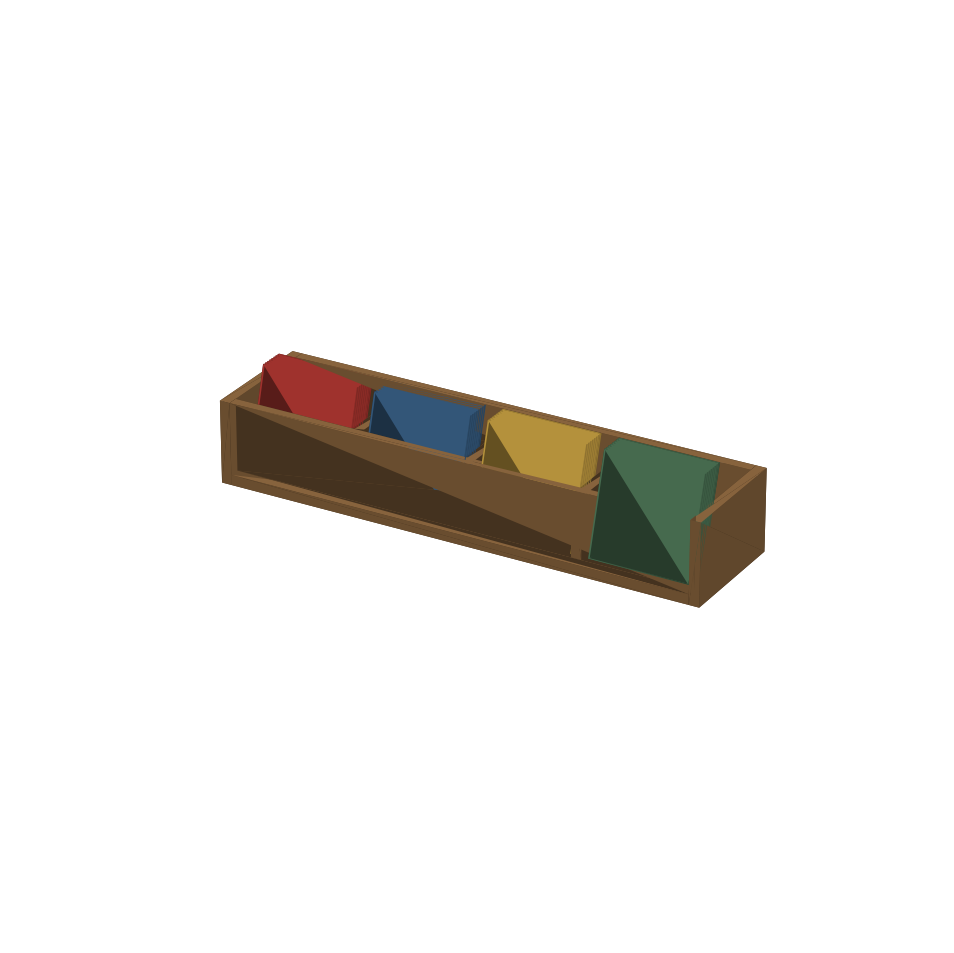
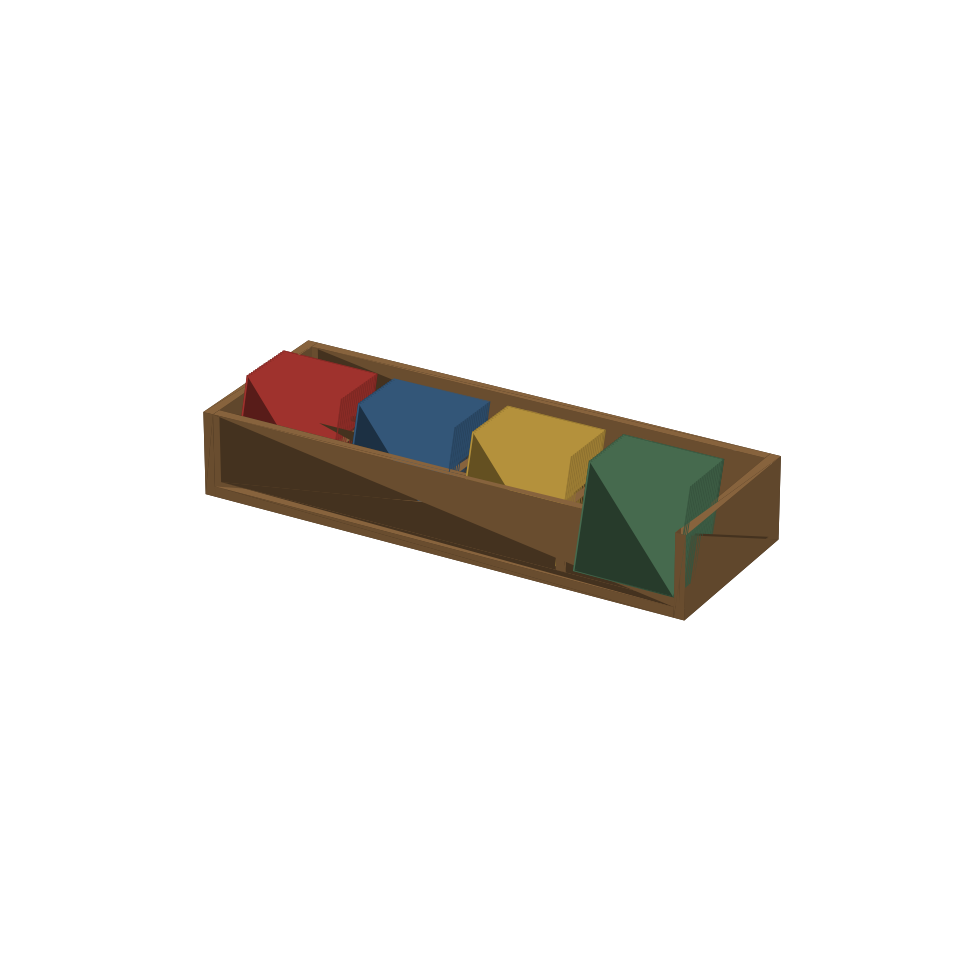
Make the flat simple bin deeper (13") to hold more 45s
Per-variant depth + record count. Flat bin protrudes more (13" / 33 cm deep)
since it's not a browse-from-top design; slanted stays 9".

Changed region(s): [[0.2128, 0.3347, 0.8208, 0.6695]]

diff --git a/viewer_simple_7inch_flat.html b/viewer_simple_7inch_flat.html
@@ -54,7 +54,7 @@
 <div id="app"></div>
 <div id="panel">
   <h1>Vinyl Record Storage</h1>
-  <div class="sub">Simple 4x 7" bin (flat) · 35.75 × 9.0 × 6.0 in · 12 parts</div>
+  <div class="sub">Simple 4x 7" bin (flat) · 35.75 × 13.0 × 6.0 in · 12 parts</div>
   <div class="row">
     <label>Explode</label>
     <input id="explode" type="range" min="0" max="100" value="0">
@@ -88,7 +88,7 @@ import * as THREE from 'three';
 import { OrbitControls } from 'three/addons/controls/OrbitControls.js';
 import { RoomEnvironment } from 'three/addons/environments/RoomEnvironment.js';
 
-const PARTS = [{"name": "side_left", "color": "#966e44", "positions": [0.0, 0.0, -0.0, 0.0, 0.0, -9.0, 0.0, 6.0, -9.0, 0.0, 6.0, -0.0, 0.75, 0.0, -0.0, 0.75, 0.0, -9.0, 0.75, 6.0, -9.0, 0.75, 6.0, -0.0], "indices": [3, 1, 0, 3, 2, 1, 4, 5, 7, 5, 6, 7, 5, 4, 1, 1, 4, 0, 6, 5, 2, 2, 5, 1, 4, 7, 0, 0, 7, 3, 7, 6, 3, 3, 6, 2]}, {"name": "side_right", "color": "#966e44", "positions": [35.0, 0.0, -0.0, 35.0, 0.0, -9.0, 35.0, 6.0, -9.0, 35.0, 6.0, -0.0, 35.75, 0.0, -0.0, 35.75, 0.0, -9.0, 35.75, 6.0, -9.0, 35.75, 6.0, -0.0], "indices": [3, 1, 0, 3, 2, 1, 4, 5, 7, 5, 6, 7, 5, 4, 1, 1, 4, 0, 6, 5, 2, 2, 5, 1, 4, 7, 0, 0, 7, 3, 7, 6, 3, 3, 6, 2]}, {"name": "bottom", "color": "#966e44", "positions": [0.75, 0.0, -0.0, 0.75, 0.75, -0.0, 0.75, 0.0, -9.0, 0.75, 0.75, -9.0, 35.0, 0.0, -0.0, 35.0, 0.75, -0.0, 35.0, 0.0, -9.0, 35.0, 0.75, -9.0], "indices": [1, 3, 0, 4, 1, 0, 0, 3, 2, 2, 4, 0, 1, 7, 3, 5, 1, 4, 5, 7, 1, 3, 7, 2, 6, 4, 2, 2, 7, 6, 6, 5, 4, 7, 5, 6]}, {"name": "back", "color": "#966e44", "positions": [0.75, 0.75, -8.25, 0.75, 6.0, -8.25, 0.75, 0.75, -9.0, 0.75, 6.0, -9.0, 35.0, 0.75, -8.25, 35.0, 6.0, -8.25, 35.0, 0.75, -9.0, 35.0, 6.0, -9.0], "indices": [1, 3, 0, 4, 1, 0, 0, 3, 2, 2, 4, 0, 1, 7, 3, 5, 1, 4, 5, 7, 1, 3, 7, 2, 6, 4, 2, 2, 7, 6, 6, 5, 4, 7, 5, 6]}, {"name": "front", "color": "#966e44", "positions": [0.75, 0.75, -0.0, 0.75, 6.0, -0.0, 0.75, 0.75, -0.75, 0.75, 6.0, -0.75, 35.0, 0.75, -0.0, 35.0, 6.0, -0.0, 35.0, 0.75, -0.75, 35.0, 6.0, -0.75], "indices": [1, 3, 0, 4, 1, 0, 0, 3, 2, 2, 4, 0, 1, 7, 3, 5, 1, 4, 5, 7, 1, 3, 7, 2, 6, 4, 2, 2, 7, 6, 6, 5, 4, 7, 5, 6]}, {"name": "divider_1", "color": "#966e44", "positions": [8.9375, 0.75, -0.75, 8.9375, 5.25, -0.75, 8.9375, 0.75, -8.25, 8.9375, 5.25, -8.25, 9.6875, 0.75, -0.75, 9.6875, 5.25, -0.75, 9.6875, 0.75, -8.25, 9.6875, 5.25, -8.25], "indices": [1, 3, 0, 4, 1, 0, 0, 3, 2, 2, 4, 0, 1, 7, 3, 5, 1, 4, 5, 7, 1, 3, 7, 2, 6, 4, 2, 2, 7, 6, 6, 5, 4, 7, 5, 6]}, {"name": "divider_2", "color": "#966e44", "positions": [17.5, 0.75, -0.75, 17.5, 5.25, -0.75, 17.5, 0.75, -8.25, 17.5, 5.25, -8.25, 18.25, 0.75, -0.75, 18.25, 5.25, -0.75, 18.25, 0.75, -8.25, 18.25, 5.25, -8.25], "indices": [1, 3, 0, 4, 1, 0, 0, 3, 2, 2, 4, 0, 1, 7, 3, 5, 1, 4, 5, 7, 1, 3, 7, 2, 6, 4, 2, 2, 7, 6, 6, 5, 4, 7, 5, 6]}, {"name": "divider_3", "color": "#966e44", "positions": [26.0625, 0.75, -0.75, 26.0625, 5.25, -0.75, 26.0625, 0.75, -8.25, 26.0625, 5.25, -8.25, 26.8125, 0.75, -0.75, 26.8125, 5.25, -0.75, 26.8125, 0.75, -8.25, 26.8125, 5.25, -8.25], "indices": [1, 3, 0, 4, 1, 0, 0, 3, 2, 2, 4, 0, 1, 7, 3, 5, 1, 4, 5, 7, 1, 3, 7, 2, 6, 4, 2, 2, 7, 6, 6, 5, 4, 7, 5, 6]}, {"name": "records_1", "color": "#c43e37", "positions": [1.4062, 0.75, -1.15, 1.4062, 7.7191, -3.1484, 1.4062, 0.6894, -1.3615, 1.4062, 7.6585, -3.3598, 8.6562, 0.75, -1.15, 8.6562, 7.7191, -3.1484, 8.6562, 0.6894, -1.3615, 8.6562, 7.6585, -3.3598, 1.4062, 0.75, -1.4089, 1.4062, 7.7191, -3.4072, 1.4062, 0.6894, -1.6203, 1.4062, 7.6585, -3.6187, 8.6562, 0.75, -1.4089, 8.6562, 7.7191, -3.4072, 8.6562, 0.6894, -1.6203, 8.6562, 7.6585, -3.6187, 1.4062, 0.75, -1.6677, 1.4062, 7.7191, -3.6661, 1.4062, 0.6894, -1.8792, 1.4062, 7.6585, -3.8776, 8.6562, 0.75, -1.6677, 8.6562, 7.7191, -3.6661, 8.6562, 0.6894, -1.8792, 8.6562, 7.6585, -3.8776, 1.4062, 0.75, -1.9266, 1.4062, 7.7191, -3.925, 1.4062, 0.6894, -2.1381, 1.4062, 7.6585, -4.1364, 8.6562, 0.75, -1.9266, 8.6562, 7.7191, -3.925, 8.6562, 0.6894, -2.1381, 8.6562, 7.6585, -4.1364, 1.4062, 0.75, -2.1855, 1.4062, 7.7191, -4.1838, 1.4062, 0.6894, -2.3969, 1.4062, 7.6585, -4.3953, 8.6562, 0.75, -2.1855, 8.6562, 7.7191, -4.1838, 8.6562, 0.6894, -2.3969, 8.6562, 7.6585, -4.3953, 1.4062, 0.75, -2.4443, 1.4062, 7.7191, -4.4427, 1.4062, 0.6894, -2.6558, 1.4062, 7.6585, -4.6542, 8.6562, 0.75, -2.4443, 8.6562, 7.7191, -4.4427, 8.6562, 0.6894, -2.6558, 8.6562, 7.6585, -4.6542, 1.4062, 0.75, -2.7032, 1.4062, 7.7191, -4.7016, 1.4062, 0.6894, -2.9147, 1.4062, 7.6585, -4.913, 8.6562, 0.75, -2.7032, 8.6562, 7.7191, -4.7016, 8.6562, 0.6894, -2.9147, 8.6562, 7.6585, -4.913, 1.4062, 0.75, -2.9621, 1.4062, 7.7191, -4.9604, 1.4062, 0.6894, -3.1735, 1.4062, 7.6585, -5.1719, 8.6562, 0.75, -2.9621, 8.6562, 7.7191, -4.9604, 8.6562, 0.6894, -3.1735, 8.6562, 7.6585, -5.1719], "indices": [1, 3, 0, 4, 1, 0, 0, 3, 2, 2, 4, 0, 1, 7, 3, 5, 1, 4, 5, 7, 1, 3, 7, 2, 6, 4, 2, 2, 7, 6, 6, 5, 4, 7, 5, 6, 9, 11, 8, 12, 9, 8, 8, 11, 10, 10, 12, 8, 9, 15, 11, 13, 9, 12, 13, 15, 9, 11, 15, 10, 14, 12, 10, 10, 15, 14, 14, 13, 12, 15, 13, 14, 17, 19, 16, 20, 17, 16, 16, 19, 18, 18, 20, 16, 17, 23, 19, 21, 17, 20, 21, 23, 17, 19, 23, 18, 22, 20, 18, 18, 23, 22, 22, 21, 20, 23, 21, 22, 25, 27, 24, 28, 25, 24, 24, 27, 26, 26, 28, 24, 25, 31, 27, 29, 25, 28, 29, 31, 25, 27, 31, 26, 30, 28, 26, 26, 31, 30, 30, 29, 28, 31, 29, 30, 33, 35, 32, 36, 33, 32, 32, 35, 34, 34, 36, 32, 33, 39, 35, 37, 33, 36, 37, 39, 33, 35, 39, 34, 38, 36, 34, 34, 39, 38, 38, 37, 36, 39, 37, 38, 41, 43, 40, 44, 41, 40, 40, 43, 42, 42, 44, 40, 41, 47, 43, 45, 41, 44, 45, 47, 41, 43, 47, 42, 46, 44, 42, 42, 47, 46, 46, 45, 44, 47, 45, 46, 49, 51, 48, 52, 49, 48, 48, 51, 50, 50, 52, 48, 49, 55, 51, 53, 49, 52, 53, 55, 49, 51, 55, 50, 54, 52, 50, 50, 55, 54, 54, 53, 52, 55, 53, 54, 57, 59, 56, 60, 57, 56, 56, 59, 58, 58, 60, 56, 57, 63, 59, 61, 57, 60, 61, 63, 57, 59, 63, 58, 62, 60, 58, 58, 63, 62, 62, 61, 60, 63, 61, 62]}, {"name": "records_2", "color": "#3f6a94", "positions": [9.9688, 0.75, -1.15, 9.9688, 7.7191, -3.1484, 9.9688, 0.6894, -1.3615, 9.9688, 7.6585, -3.3598, 17.2188, 0.75, -1.15, 17.2188, 7.7191, -3.1484, 17.2188, 0.6894, -1.3615, 17.2188, 7.6585, -3.3598, 9.9688, 0.75, -1.4089, 9.9688, 7.7191, -3.4072, 9.9688, 0.6894, -1.6203, 9.9688, 7.6585, -3.6187, 17.2188, 0.75, -1.4089, 17.2188, 7.7191, -3.4072, 17.2188, 0.6894, -1.6203, 17.2188, 7.6585, -3.6187, 9.9688, 0.75, -1.6677, 9.9688, 7.7191, -3.6661, 9.9688, 0.6894, -1.8792, 9.9688, 7.6585, -3.8776, 17.2188, 0.75, -1.6677, 17.2188, 7.7191, -3.6661, 17.2188, 0.6894, -1.8792, 17.2188, 7.6585, -3.8776, 9.9688, 0.75, -1.9266, 9.9688, 7.7191, -3.925, 9.9688, 0.6894, -2.1381, 9.9688, 7.6585, -4.1364, 17.2188, 0.75, -1.9266, 17.2188, 7.7191, -3.925, 17.2188, 0.6894, -2.1381, 17.2188, 7.6585, -4.1364, 9.9688, 0.75, -2.1855, 9.9688, 7.7191, -4.1838, 9.9688, 0.6894, -2.3969, 9.9688, 7.6585, -4.3953, 17.2188, 0.75, -2.1855, 17.2188, 7.7191, -4.1838, 17.2188, 0.6894, -2.3969, 17.2188, 7.6585, -4.3953, 9.9688, 0.75, -2.4443, 9.9688, 7.7191, -4.4427, 9.9688, 0.6894, -2.6558, 9.9688, 7.6585, -4.6542, 17.2188, 0.75, -2.4443, 17.2188, 7.7191, -4.4427, 17.2188, 0.6894, -2.6558, 17.2188, 7.6585, -4.6542, 9.9688, 0.75, -2.7032, 9.9688, 7.7191, -4.7016, 9.9688, 0.6894, -2.9147, 9.9688, 7.6585, -4.913, 17.2188, 0.75, -2.7032, 17.2188, 7.7191, -4.7016, 17.2188, 0.6894, -2.9147, 17.2188, 7.6585, -4.913, 9.9688, 0.75, -2.9621, 9.9688, 7.7191, -4.9604, 9.9688, 0.6894, -3.1735, 9.9688, 7.6585, -5.1719, 17.2188, 0.75, -2.9621, 17.2188, 7.7191, -4.9604, 17.2188, 0.6894, -3.1735, 17.2188, 7.6585, -5.1719], "indices": [1, 3, 0, 4, 1, 0, 0, 3, 2, 2, 4, 0, 1, 7, 3, 5, 1, 4, 5, 7, 1, 3, 7, 2, 6, 4, 2, 2, 7, 6, 6, 5, 4, 7, 5, 6, 9, 11, 8, 12, 9, 8, 8, 11, 10, 10, 12, 8, 9, 15, 11, 13, 9, 12, 13, 15, 9, 11, 15, 10, 14, 12, 10, 10, 15, 14, 14, 13, 12, 15, 13, 14, 17, 19, 16, 20, 17, 16, 16, 19, 18, 18, 20, 16, 17, 23, 19, 21, 17, 20, 21, 23, 17, 19, 23, 18, 22, 20, 18, 18, 23, 22, 22, 21, 20, 23, 21, 22, 25, 27, 24, 28, 25, 24, 24, 27, 26, 26, 28, 24, 25, 31, 27, 29, 25, 28, 29, 31, 25, 27, 31, 26, 30, 28, 26, 26, 31, 30, 30, 29, 28, 31, 29, 30, 33, 35, 32, 36, 33, 32, 32, 35, 34, 34, 36, 32, 33, 39, 35, 37, 33, 36, 37, 39, 33, 35, 39, 34, 38, 36, 34, 34, 39, 38, 38, 37, 36, 39, 37, 38, 41, 43, 40, 44, 41, 40, 40, 43, 42, 42, 44, 40, 41, 47, 43, 45, 41, 44, 45, 47, 41, 43, 47, 42, 46, 44, 42, 42, 47, 46, 46, 45, 44, 47, 45, 46, 49, 51, 48, 52, 49, 48, 48, 51, 50, 50, 52, 48, 49, 55, 51, 53, 49, 52, 53, 55, 49, 51, 55, 50, 54, 52, 50, 50, 55, 54, 54, 53, 52, 55, 53, 54, 57, 59, 56, 60, 57, 56, 56, 59, 58, 58, 60, 56, 57, 63, 59, 61, 57, 60, 61, 63, 57, 59, 63, 58, 62, 60, 58, 58, 63, 62, 62, 61, 60, 63, 61, 62]}, {"name": "records_3", "color": "#deb24a", "positions": [18.5312, 0.75, -1.15, 18.5312, 7.7191, -3.1484, 18.5312, 0.6894, -1.3615, 18.5312, 7.6585, -3.3598, 25.7812, 0.75, -1.15, 25.7812, 7.7191, -3.1484, 25.7812, 0.6894, -1.3615, 25.7812, 7.6585, -3.3598, 18.5312, 0.75, -1.4089, 18.5312, 7.7191, -3.4072, 18.5312, 0.6894, -1.6203, 18.5312, 7.6585, -3.6187, 25.7812, 0.75, -1.4089, 25.7812, 7.7191, -3.4072, 25.7812, 0.6894, -1.6203, 25.7812, 7.6585, -3.6187, 18.5312, 0.75, -1.6677, 18.5312, 7.7191, -3.6661, 18.5312, 0.6894, -1.8792, 18.5312, 7.6585, -3.8776, 25.7812, 0.75, -1.6677, 25.7812, 7.7191, -3.6661, 25.7812, 0.6894, -1.8792, 25.7812, 7.6585, -3.8776, 18.5312, 0.75, -1.9266, 18.5312, 7.7191, -3.925, 18.5312, 0.6894, -2.1381, 18.5312, 7.6585, -4.1364, 25.7812, 0.75, -1.9266, 25.7812, 7.7191, -3.925, 25.7812, 0.6894, -2.1381, 25.7812, 7.6585, -4.1364, 18.5312, 0.75, -2.1855, 18.5312, 7.7191, -4.1838, 18.5312, 0.6894, -2.3969, 18.5312, 7.6585, -4.3953, 25.7812, 0.75, -2.1855, 25.7812, 7.7191, -4.1838, 25.7812, 0.6894, -2.3969, 25.7812, 7.6585, -4.3953, 18.5312, 0.75, -2.4443, 18.5312, 7.7191, -4.4427, 18.5312, 0.6894, -2.6558, 18.5312, 7.6585, -4.6542, 25.7812, 0.75, -2.4443, 25.7812, 7.7191, -4.4427, 25.7812, 0.6894, -2.6558, 25.7812, 7.6585, -4.6542, 18.5312, 0.75, -2.7032, 18.5312, 7.7191, -4.7016, 18.5312, 0.6894, -2.9147, 18.5312, 7.6585, -4.913, 25.7812, 0.75, -2.7032, 25.7812, 7.7191, -4.7016, 25.7812, 0.6894, -2.9147, 25.7812, 7.6585, -4.913, 18.5312, 0.75, -2.9621, 18.5312, 7.7191, -4.9604, 18.5312, 0.6894, -3.1735, 18.5312, 7.6585, -5.1719, 25.7812, 0.75, -2.9621, 25.7812, 7.7191, -4.9604, 25.7812, 0.6894, -3.1735, 25.7812, 7.6585, -5.1719], "indices": [1, 3, 0, 4, 1, 0, 0, 3, 2, 2, 4, 0, 1, 7, 3, 5, 1, 4, 5, 7, 1, 3, 7, 2, 6, 4, 2, 2, 7, 6, 6, 5, 4, 7, 5, 6, 9, 11, 8, 12, 9, 8, 8, 11, 10, 10, 12, 8, 9, 15, 11, 13, 9, 12, 13, 15, 9, 11, 15, 10, 14, 12, 10, 10, 15, 14, 14, 13, 12, 15, 13, 14, 17, 19, 16, 20, 17, 16, 16, 19, 18, 18, 20, 16, 17, 23, 19, 21, 17, 20, 21, 23, 17, 19, 23, 18, 22, 20, 18, 18, 23, 22, 22, 21, 20, 23, 21, 22, 25, 27, 24, 28, 25, 24, 24, 27, 26, 26, 28, 24, 25, 31, 27, 29, 25, 28, 29, 31, 25, 27, 31, 26, 30, 28, 26, 26, 31, 30, 30, 29, 28, 31, 29, 30, 33, 35, 32, 36, 33, 32, 32, 35, 34, 34, 36, 32, 33, 39, 35, 37, 33, 36, 37, 39, 33, 35, 39, 34, 38, 36, 34, 34, 39, 38, 38, 37, 36, 39, 37, 38, 41, 43, 40, 44, 41, 40, 40, 43, 42, 42, 44, 40, 41, 47, 43, 45, 41, 44, 45, 47, 41, 43, 47, 42, 46, 44, 42, 42, 47, 46, 46, 45, 44, 47, 45, 46, 49, 51, 48, 52, 49, 48, 48, 51, 50, 50, 52, 48, 49, 55, 51, 53, 49, 52, 53, 55, 49, 51, 55, 50, 54, 52, 50, 50, 55, 54, 54, 53, 52, 55, 53, 54, 57, 59, 56, 60, 57, 56, 56, 59, 58, 58, 60, 56, 57, 63, 59, 61, 57, 60, 61, 63, 57, 59, 63, 58, 62, 60, 58, 58, 63, 62, 62, 61, 60, 63, 61, 62]}, {"name": "records_4", "color": "#568260", "positions": [27.0938, 0.75, -1.15, 27.0938, 7.7191, -3.1484, 27.0938, 0.6894, -1.3615, 27.0938, 7.6585, -3.3598, 34.3438, 0.75, -1.15, 34.3438, 7.7191, -3.1484, 34.3438, 0.6894, -1.3615, 34.3438, 7.6585, -3.3598, 27.0938, 0.75, -1.4089, 27.0938, 7.7191, -3.4072, 27.0938, 0.6894, -1.6203, 27.0938, 7.6585, -3.6187, 34.3438, 0.75, -1.4089, 34.3438, 7.7191, -3.4072, 34.3438, 0.6894, -1.6203, 34.3438, 7.6585, -3.6187, 27.0938, 0.75, -1.6677, 27.0938, 7.7191, -3.6661, 27.0938, 0.6894, -1.8792, 27.0938, 7.6585, -3.8776, 34.3438, 0.75, -1.6677, 34.3438, 7.7191, -3.6661, 34.3438, 0.6894, -1.8792, 34.3438, 7.6585, -3.8776, 27.0938, 0.75, -1.9266, 27.0938, 7.7191, -3.925, 27.0938, 0.6894, -2.1381, 27.0938, 7.6585, -4.1364, 34.3438, 0.75, -1.9266, 34.3438, 7.7191, -3.925, 34.3438, 0.6894, -2.1381, 34.3438, 7.6585, -4.1364, 27.0938, 0.75, -2.1855, 27.0938, 7.7191, -4.1838, 27.0938, 0.6894, -2.3969, 27.0938, 7.6585, -4.3953, 34.3438, 0.75, -2.1855, 34.3438, 7.7191, -4.1838, 34.3438, 0.6894, -2.3969, 34.3438, 7.6585, -4.3953, 27.0938, 0.75, -2.4443, 27.0938, 7.7191, -4.4427, 27.0938, 0.6894, -2.6558, 27.0938, 7.6585, -4.6542, 34.3438, 0.75, -2.4443, 34.3438, 7.7191, -4.4427, 34.3438, 0.6894, -2.6558, 34.3438, 7.6585, -4.6542, 27.0938, 0.75, -2.7032, 27.0938, 7.7191, -4.7016, 27.0938, 0.6894, -2.9147, 27.0938, 7.6585, -4.913, 34.3438, 0.75, -2.7032, 34.3438, 7.7191, -4.7016, 34.3438, 0.6894, -2.9147, 34.3438, 7.6585, -4.913, 27.0938, 0.75, -2.9621, 27.0938, 7.7191, -4.9604, 27.0938, 0.6894, -3.1735, 27.0938, 7.6585, -5.1719, 34.3438, 0.75, -2.9621, 34.3438, 7.7191, -4.9604, 34.3438, 0.6894, -3.1735, 34.3438, 7.6585, -5.1719], "indices": [1, 3, 0, 4, 1, 0, 0, 3, 2, 2, 4, 0, 1, 7, 3, 5, 1, 4, 5, 7, 1, 3, 7, 2, 6, 4, 2, 2, 7, 6, 6, 5, 4, 7, 5, 6, 9, 11, 8, 12, 9, 8, 8, 11, 10, 10, 12, 8, 9, 15, 11, 13, 9, 12, 13, 15, 9, 11, 15, 10, 14, 12, 10, 10, 15, 14, 14, 13, 12, 15, 13, 14, 17, 19, 16, 20, 17, 16, 16, 19, 18, 18, 20, 16, 17, 23, 19, 21, 17, 20, 21, 23, 17, 19, 23, 18, 22, 20, 18, 18, 23, 22, 22, 21, 20, 23, 21, 22, 25, 27, 24, 28, 25, 24, 24, 27, 26, 26, 28, 24, 25, 31, 27, 29, 25, 28, 29, 31, 25, 27, 31, 26, 30, 28, 26, 26, 31, 30, 30, 29, 28, 31, 29, 30, 33, 35, 32, 36, 33, 32, 32, 35, 34, 34, 36, 32, 33, 39, 35, 37, 33, 36, 37, 39, 33, 35, 39, 34, 38, 36, 34, 34, 39, 38, 38, 37, 36, 39, 37, 38, 41, 43, 40, 44, 41, 40, 40, 43, 42, 42, 44, 40, 41, 47, 43, 45, 41, 44, 45, 47, 41, 43, 47, 42, 46, 44, 42, 42, 47, 46, 46, 45, 44, 47, 45, 46, 49, 51, 48, 52, 49, 48, 48, 51, 50, 50, 52, 48, 49, 55, 51, 53, 49, 52, 53, 55, 49, 51, 55, 50, 54, 52, 50, 50, 55, 54, 54, 53, 52, 55, 53, 54, 57, 59, 56, 60, 57, 56, 56, 59, 58, 58, 60, 56, 57, 63, 59, 61, 57, 60, 61, 63, 57, 59, 63, 58, 62, 60, 58, 58, 63, 62, 62, 61, 60, 63, 61, 62]}];
+const PARTS = [{"name": "side_left", "color": "#966e44", "positions": [0.0, 0.0, -0.0, 0.0, 0.0, -13.0, 0.0, 6.0, -13.0, 0.0, 6.0, -0.0, 0.75, 0.0, -0.0, 0.75, 0.0, -13.0, 0.75, 6.0, -13.0, 0.75, 6.0, -0.0], "indices": [3, 1, 0, 3, 2, 1, 4, 5, 7, 5, 6, 7, 5, 4, 1, 1, 4, 0, 6, 5, 2, 2, 5, 1, 4, 7, 0, 0, 7, 3, 7, 6, 3, 3, 6, 2]}, {"name": "side_right", "color": "#966e44", "positions": [35.0, 0.0, -0.0, 35.0, 0.0, -13.0, 35.0, 6.0, -13.0, 35.0, 6.0, -0.0, 35.75, 0.0, -0.0, 35.75, 0.0, -13.0, 35.75, 6.0, -13.0, 35.75, 6.0, -0.0], "indices": [3, 1, 0, 3, 2, 1, 4, 5, 7, 5, 6, 7, 5, 4, 1, 1, 4, 0, 6, 5, 2, 2, 5, 1, 4, 7, 0, 0, 7, 3, 7, 6, 3, 3, 6, 2]}, {"name": "bottom", "color": "#966e44", "positions": [0.75, 0.0, -0.0, 0.75, 0.75, -0.0, 0.75, 0.0, -13.0, 0.75, 0.75, -13.0, 35.0, 0.0, -0.0, 35.0, 0.75, -0.0, 35.0, 0.0, -13.0, 35.0, 0.75, -13.0], "indices": [1, 3, 0, 4, 1, 0, 0, 3, 2, 2, 4, 0, 1, 7, 3, 5, 1, 4, 5, 7, 1, 3, 7, 2, 6, 4, 2, 2, 7, 6, 6, 5, 4, 7, 5, 6]}, {"name": "back", "color": "#966e44", "positions": [0.75, 0.75, -12.25, 0.75, 6.0, -12.25, 0.75, 0.75, -13.0, 0.75, 6.0, -13.0, 35.0, 0.75, -12.25, 35.0, 6.0, -12.25, 35.0, 0.75, -13.0, 35.0, 6.0, -13.0], "indices": [1, 3, 0, 4, 1, 0, 0, 3, 2, 2, 4, 0, 1, 7, 3, 5, 1, 4, 5, 7, 1, 3, 7, 2, 6, 4, 2, 2, 7, 6, 6, 5, 4, 7, 5, 6]}, {"name": "front", "color": "#966e44", "positions": [0.75, 0.75, -0.0, 0.75, 6.0, -0.0, 0.75, 0.75, -0.75, 0.75, 6.0, -0.75, 35.0, 0.75, -0.0, 35.0, 6.0, -0.0, 35.0, 0.75, -0.75, 35.0, 6.0, -0.75], "indices": [1, 3, 0, 4, 1, 0, 0, 3, 2, 2, 4, 0, 1, 7, 3, 5, 1, 4, 5, 7, 1, 3, 7, 2, 6, 4, 2, 2, 7, 6, 6, 5, 4, 7, 5, 6]}, {"name": "divider_1", "color": "#966e44", "positions": [8.9375, 0.75, -0.75, 8.9375, 5.25, -0.75, 8.9375, 0.75, -12.25, 8.9375, 5.25, -12.25, 9.6875, 0.75, -0.75, 9.6875, 5.25, -0.75, 9.6875, 0.75, -12.25, 9.6875, 5.25, -12.25], "indices": [1, 3, 0, 4, 1, 0, 0, 3, 2, 2, 4, 0, 1, 7, 3, 5, 1, 4, 5, 7, 1, 3, 7, 2, 6, 4, 2, 2, 7, 6, 6, 5, 4, 7, 5, 6]}, {"name": "divider_2", "color": "#966e44", "positions": [17.5, 0.75, -0.75, 17.5, 5.25, -0.75, 17.5, 0.75, -12.25, 17.5, 5.25, -12.25, 18.25, 0.75, -0.75, 18.25, 5.25, -0.75, 18.25, 0.75, -12.25, 18.25, 5.25, -12.25], "indices": [1, 3, 0, 4, 1, 0, 0, 3, 2, 2, 4, 0, 1, 7, 3, 5, 1, 4, 5, 7, 1, 3, 7, 2, 6, 4, 2, 2, 7, 6, 6, 5, 4, 7, 5, 6]}, {"name": "divider_3", "color": "#966e44", "positions": [26.0625, 0.75, -0.75, 26.0625, 5.25, -0.75, 26.0625, 0.75, -12.25, 26.0625, 5.25, -12.25, 26.8125, 0.75, -0.75, 26.8125, 5.25, -0.75, 26.8125, 0.75, -12.25, 26.8125, 5.25, -12.25], "indices": [1, 3, 0, 4, 1, 0, 0, 3, 2, 2, 4, 0, 1, 7, 3, 5, 1, 4, 5, 7, 1, 3, 7, 2, 6, 4, 2, 2, 7, 6, 6, 5, 4, 7, 5, 6]}, {"name": "records_1", "color": "#c43e37", "positions": [1.4062, 0.75, -1.15, 1.4062, 7.7191, -3.1484, 1.4062, 0.6894, -1.3615, 1.4062, 7.6585, -3.3598, 8.6562, 0.75, -1.15, 8.6562, 7.7191, -3.1484, 8.6562, 0.6894, -1.3615, 8.6562, 7.6585, -3.3598, 1.4062, 0.75, -1.4089, 1.4062, 7.7191, -3.4072, 1.4062, 0.6894, -1.6203, 1.4062, 7.6585, -3.6187, 8.6562, 0.75, -1.4089, 8.6562, 7.7191, -3.4072, 8.6562, 0.6894, -1.6203, 8.6562, 7.6585, -3.6187, 1.4062, 0.75, -1.6677, 1.4062, 7.7191, -3.6661, 1.4062, 0.6894, -1.8792, 1.4062, 7.6585, -3.8776, 8.6562, 0.75, -1.6677, 8.6562, 7.7191, -3.6661, 8.6562, 0.6894, -1.8792, 8.6562, 7.6585, -3.8776, 1.4062, 0.75, -1.9266, 1.4062, 7.7191, -3.925, 1.4062, 0.6894, -2.1381, 1.4062, 7.6585, -4.1364, 8.6562, 0.75, -1.9266, 8.6562, 7.7191, -3.925, 8.6562, 0.6894, -2.1381, 8.6562, 7.6585, -4.1364, 1.4062, 0.75, -2.1855, 1.4062, 7.7191, -4.1838, 1.4062, 0.6894, -2.3969, 1.4062, 7.6585, -4.3953, 8.6562, 0.75, -2.1855, 8.6562, 7.7191, -4.1838, 8.6562, 0.6894, -2.3969, 8.6562, 7.6585, -4.3953, 1.4062, 0.75, -2.4443, 1.4062, 7.7191, -4.4427, 1.4062, 0.6894, -2.6558, 1.4062, 7.6585, -4.6542, 8.6562, 0.75, -2.4443, 8.6562, 7.7191, -4.4427, 8.6562, 0.6894, -2.6558, 8.6562, 7.6585, -4.6542, 1.4062, 0.75, -2.7032, 1.4062, 7.7191, -4.7016, 1.4062, 0.6894, -2.9147, 1.4062, 7.6585, -4.913, 8.6562, 0.75, -2.7032, 8.6562, 7.7191, -4.7016, 8.6562, 0.6894, -2.9147, 8.6562, 7.6585, -4.913, 1.4062, 0.75, -2.9621, 1.4062, 7.7191, -4.9604, 1.4062, 0.6894, -3.1735, 1.4062, 7.6585, -5.1719, 8.6562, 0.75, -2.9621, 8.6562, 7.7191, -4.9604, 8.6562, 0.6894, -3.1735, 8.6562, 7.6585, -5.1719, 1.4062, 0.75, -3.2209, 1.4062, 7.7191, -5.2193, 1.4062, 0.6894, -3.4324, 1.4062, 7.6585, -5.4308, 8.6562, 0.75, -3.2209, 8.6562, 7.7191, -5.2193, 8.6562, 0.6894, -3.4324, 8.6562, 7.6585, -5.4308, 1.4062, 0.75, -3.4798, 1.4062, 7.7191, -5.4782, 1.4062, 0.6894, -3.6913, 1.4062, 7.6585, -5.6896, 8.6562, 0.75, -3.4798, 8.6562, 7.7191, -5.4782, 8.6562, 0.6894, -3.6913, 8.6562, 7.6585, -5.6896, 1.4062, 0.75, -3.7387, 1.4062, 7.7191, -5.737, 1.4062, 0.6894, -3.9501, 1.4062, 7.6585, -5.9485, 8.6562, 0.75, -3.7387, 8.6562, 7.7191, -5.737, 8.6562, 0.6894, -3.9501, 8.6562, 7.6585, -5.9485, 1.4062, 0.75, -3.9975, 1.4062, 7.7191, -5.9959, 1.4062, 0.6894, -4.209, 1.4062, 7.6585, -6.2074, 8.6562, 0.75, -3.9975, 8.6562, 7.7191, -5.9959, 8.6562, 0.6894, -4.209, 8.6562, 7.6585, -6.2074, 1.4062, 0.75, -4.2564, 1.4062, 7.7191, -6.2548, 1.4062, 0.6894, -4.4679, 1.4062, 7.6585, -6.4662, 8.6562, 0.75, -4.2564, 8.6562, 7.7191, -6.2548, 8.6562, 0.6894, -4.4679, 8.6562, 7.6585, -6.4662, 1.4062, 0.75, -4.5153, 1.4062, 7.7191, -6.5136, 1.4062, 0.6894, -4.7267, 1.4062, 7.6585, -6.7251, 8.6562, 0.75, -4.5153, 8.6562, 7.7191, -6.5136, 8.6562, 0.6894, -4.7267, 8.6562, 7.6585, -6.7251, 1.4062, 0.75, -4.7741, 1.4062, 7.7191, -6.7725, 1.4062, 0.6894, -4.9856, 1.4062, 7.6585, -6.984, 8.6562, 0.75, -4.7741, 8.6562, 7.7191, -6.7725, 8.6562, 0.6894, -4.9856, 8.6562, 7.6585, -6.984, 1.4062, 0.75, -5.033, 1.4062, 7.7191, -7.0314, 1.4062, 0.6894, -5.2445, 1.4062, 7.6585, -7.2428, 8.6562, 0.75, -5.033, 8.6562, 7.7191, -7.0314, 8.6562, 0.6894, -5.2445, 8.6562, 7.6585, -7.2428, 1.4062, 0.75, -5.2919, 1.4062, 7.7191, -7.2902, 1.4062, 0.6894, -5.5033, 1.4062, 7.6585, -7.5017, 8.6562, 0.75, -5.2919, 8.6562, 7.7191, -7.2902, 8.6562, 0.6894, -5.5033, 8.6562, 7.6585, -7.5017, 1.4062, 0.75, -5.5507, 1.4062, 7.7191, -7.5491, 1.4062, 0.6894, -5.7622, 1.4062, 7.6585, -7.7606, 8.6562, 0.75, -5.5507, 8.6562, 7.7191, -7.5491, 8.6562, 0.6894, -5.7622, 8.6562, 7.6585, -7.7606], "indices": [1, 3, 0, 4, 1, 0, 0, 3, 2, 2, 4, 0, 1, 7, 3, 5, 1, 4, 5, 7, 1, 3, 7, 2, 6, 4, 2, 2, 7, 6, 6, 5, 4, 7, 5, 6, 9, 11, 8, 12, 9, 8, 8, 11, 10, 10, 12, 8, 9, 15, 11, 13, 9, 12, 13, 15, 9, 11, 15, 10, 14, 12, 10, 10, 15, 14, 14, 13, 12, 15, 13, 14, 17, 19, 16, 20, 17, 16, 16, 19, 18, 18, 20, 16, 17, 23, 19, 21, 17, 20, 21, 23, 17, 19, 23, 18, 22, 20, 18, 18, 23, 22, 22, 21, 20, 23, 21, 22, 25, 27, 24, 28, 25, 24, 24, 27, 26, 26, 28, 24, 25, 31, 27, 29, 25, 28, 29, 31, 25, 27, 31, 26, 30, 28, 26, 26, 31, 30, 30, 29, 28, 31, 29, 30, 33, 35, 32, 36, 33, 32, 32, 35, 34, 34, 36, 32, 33, 39, 35, 37, 33, 36, 37, 39, 33, 35, 39, 34, 38, 36, 34, 34, 39, 38, 38, 37, 36, 39, 37, 38, 41, 43, 40, 44, 41, 40, 40, 43, 42, 42, 44, 40, 41, 47, 43, 45, 41, 44, 45, 47, 41, 43, 47, 42, 46, 44, 42, 42, 47, 46, 46, 45, 44, 47, 45, 46, 49, 51, 48, 52, 49, 48, 48, 51, 50, 50, 52, 48, 49, 55, 51, 53, 49, 52, 53, 55, 49, 51, 55, 50, 54, 52, 50, 50, 55, 54, 54, 53, 52, 55, 53, 54, 57, 59, 56, 60, 57, 56, 56, 59, 58, 58, 60, 56, 57, 63, 59, 61, 57, 60, 61, 63, 57, 59, 63, 58, 62, 60, 58, 58, 63, 62, 62, 61, 60, 63, 61, 62, 65, 67, 64, 68, 65, 64, 64, 67, 66, 66, 68, 64, 65, 71, 67, 69, 65, 68, 69, 71, 65, 67, 71, 66, 70, 68, 66, 66, 71, 70, 70, 69, 68, 71, 69, 70, 73, 75, 72, 76, 73, 72, 72, 75, 74, 74, 76, 72, 73, 79, 75, 77, 73, 76, 77, 79, 73, 75, 79, 74, 78, 76, 74, 74, 79, 78, 78, 77, 76, 79, 77, 78, 81, 83, 80, 84, 81, 80, 80, 83, 82, 82, 84, 80, 81, 87, 83, 85, 81, 84, 85, 87, 81, 83, 87, 82, 86, 84, 82, 82, 87, 86, 86, 85, 84, 87, 85, 86, 89, 91, 88, 92, 89, 88, 88, 91, 90, 90, 92, 88, 89, 95, 91, 93, 89, 92, 93, 95, 89, 91, 95, 90, 94, 92, 90, 90, 95, 94, 94, 93, 92, 95, 93, 94, 97, 99, 96, 100, 97, 96, 96, 99, 98, 98, 100, 96, 97, 103, 99, 101, 97, 100, 101, 103, 97, 99, 103, 98, 102, 100, 98, 98, 103, 102, 102, 101, 100, 103, 101, 102, 105, 107, 104, 108, 105, 104, 104, 107, 106, 106, 108, 104, 105, 111, 107, 109, 105, 108, 109, 111, 105, 107, 111, 106, 110, 108, 106, 106, 111, 110, 110, 109, 108, 111, 109, 110, 113, 115, 112, 116, 113, 112, 112, 115, 114, 114, 116, 112, 113, 119, 115, 117, 113, 116, 117, 119, 113, 115, 119, 114, 118, 116, 114, 114, 119, 118, 118, 117, 116, 119, 117, 118, 121, 123, 120, 124, 121, 120, 120, 123, 122, 122, 124, 120, 121, 127, 123, 125, 121, 124, 125, 127, 121, 123, 127, 122, 126, 124, 122, 122, 127, 126, 126, 125, 124, 127, 125, 126, 129, 131, 128, 132, 129, 128, 128, 131, 130, 130, 132, 128, 129, 135, 131, 133, 129, 132, 133, 135, 129, 131, 135, 130, 134, 132, 130, 130, 135, 134, 134, 133, 132, 135, 133, 134, 137, 139, 136, 140, 137, 136, 136, 139, 138, 138, 140, 136, 137, 143, 139, 141, 137, 140, 141, 143, 137, 139, 143, 138, 142, 140, 138, 138, 143, 142, 142, 141, 140, 143, 141, 142]}, {"name": "records_2", "color": "#3f6a94", "positions": [9.9688, 0.75, -1.15, 9.9688, 7.7191, -3.1484, 9.9688, 0.6894, -1.3615, 9.9688, 7.6585, -3.3598, 17.2188, 0.75, -1.15, 17.2188, 7.7191, -3.1484, 17.2188, 0.6894, -1.3615, 17.2188, 7.6585, -3.3598, 9.9688, 0.75, -1.4089, 9.9688, 7.7191, -3.4072, 9.9688, 0.6894, -1.6203, 9.9688, 7.6585, -3.6187, 17.2188, 0.75, -1.4089, 17.2188, 7.7191, -3.4072, 17.2188, 0.6894, -1.6203, 17.2188, 7.6585, -3.6187, 9.9688, 0.75, -1.6677, 9.9688, 7.7191, -3.6661, 9.9688, 0.6894, -1.8792, 9.9688, 7.6585, -3.8776, 17.2188, 0.75, -1.6677, 17.2188, 7.7191, -3.6661, 17.2188, 0.6894, -1.8792, 17.2188, 7.6585, -3.8776, 9.9688, 0.75, -1.9266, 9.9688, 7.7191, -3.925, 9.9688, 0.6894, -2.1381, 9.9688, 7.6585, -4.1364, 17.2188, 0.75, -1.9266, 17.2188, 7.7191, -3.925, 17.2188, 0.6894, -2.1381, 17.2188, 7.6585, -4.1364, 9.9688, 0.75, -2.1855, 9.9688, 7.7191, -4.1838, 9.9688, 0.6894, -2.3969, 9.9688, 7.6585, -4.3953, 17.2188, 0.75, -2.1855, 17.2188, 7.7191, -4.1838, 17.2188, 0.6894, -2.3969, 17.2188, 7.6585, -4.3953, 9.9688, 0.75, -2.4443, 9.9688, 7.7191, -4.4427, 9.9688, 0.6894, -2.6558, 9.9688, 7.6585, -4.6542, 17.2188, 0.75, -2.4443, 17.2188, 7.7191, -4.4427, 17.2188, 0.6894, -2.6558, 17.2188, 7.6585, -4.6542, 9.9688, 0.75, -2.7032, 9.9688, 7.7191, -4.7016, 9.9688, 0.6894, -2.9147, 9.9688, 7.6585, -4.913, 17.2188, 0.75, -2.7032, 17.2188, 7.7191, -4.7016, 17.2188, 0.6894, -2.9147, 17.2188, 7.6585, -4.913, 9.9688, 0.75, -2.9621, 9.9688, 7.7191, -4.9604, 9.9688, 0.6894, -3.1735, 9.9688, 7.6585, -5.1719, 17.2188, 0.75, -2.9621, 17.2188, 7.7191, -4.9604, 17.2188, 0.6894, -3.1735, 17.2188, 7.6585, -5.1719, 9.9688, 0.75, -3.2209, 9.9688, 7.7191, -5.2193, 9.9688, 0.6894, -3.4324, 9.9688, 7.6585, -5.4308, 17.2188, 0.75, -3.2209, 17.2188, 7.7191, -5.2193, 17.2188, 0.6894, -3.4324, 17.2188, 7.6585, -5.4308, 9.9688, 0.75, -3.4798, 9.9688, 7.7191, -5.4782, 9.9688, 0.6894, -3.6913, 9.9688, 7.6585, -5.6896, 17.2188, 0.75, -3.4798, 17.2188, 7.7191, -5.4782, 17.2188, 0.6894, -3.6913, 17.2188, 7.6585, -5.6896, 9.9688, 0.75, -3.7387, 9.9688, 7.7191, -5.737, 9.9688, 0.6894, -3.9501, 9.9688, 7.6585, -5.9485, 17.2188, 0.75, -3.7387, 17.2188, 7.7191, -5.737, 17.2188, 0.6894, -3.9501, 17.2188, 7.6585, -5.9485, 9.9688, 0.75, -3.9975, 9.9688, 7.7191, -5.9959, 9.9688, 0.6894, -4.209, 9.9688, 7.6585, -6.2074, 17.2188, 0.75, -3.9975, 17.2188, 7.7191, -5.9959, 17.2188, 0.6894, -4.209, 17.2188, 7.6585, -6.2074, 9.9688, 0.75, -4.2564, 9.9688, 7.7191, -6.2548, 9.9688, 0.6894, -4.4679, 9.9688, 7.6585, -6.4662, 17.2188, 0.75, -4.2564, 17.2188, 7.7191, -6.2548, 17.2188, 0.6894, -4.4679, 17.2188, 7.6585, -6.4662, 9.9688, 0.75, -4.5153, 9.9688, 7.7191, -6.5136, 9.9688, 0.6894, -4.7267, 9.9688, 7.6585, -6.7251, 17.2188, 0.75, -4.5153, 17.2188, 7.7191, -6.5136, 17.2188, 0.6894, -4.7267, 17.2188, 7.6585, -6.7251, 9.9688, 0.75, -4.7741, 9.9688, 7.7191, -6.7725, 9.9688, 0.6894, -4.9856, 9.9688, 7.6585, -6.984, 17.2188, 0.75, -4.7741, 17.2188, 7.7191, -6.7725, 17.2188, 0.6894, -4.9856, 17.2188, 7.6585, -6.984, 9.9688, 0.75, -5.033, 9.9688, 7.7191, -7.0314, 9.9688, 0.6894, -5.2445, 9.9688, 7.6585, -7.2428, 17.2188, 0.75, -5.033, 17.2188, 7.7191, -7.0314, 17.2188, 0.6894, -5.2445, 17.2188, 7.6585, -7.2428, 9.9688, 0.75, -5.2919, 9.9688, 7.7191, -7.2902, 9.9688, 0.6894, -5.5033, 9.9688, 7.6585, -7.5017, 17.2188, 0.75, -5.2919, 17.2188, 7.7191, -7.2902, 17.2188, 0.6894, -5.5033, 17.2188, 7.6585, -7.5017, 9.9688, 0.75, -5.5507, 9.9688, 7.7191, -7.5491, 9.9688, 0.6894, -5.7622, 9.9688, 7.6585, -7.7606, 17.2188, 0.75, -5.5507, 17.2188, 7.7191, -7.5491, 17.2188, 0.6894, -5.7622, 17.2188, 7.6585, -7.7606], "indices": [1, 3, 0, 4, 1, 0, 0, 3, 2, 2, 4, 0, 1, 7, 3, 5, 1, 4, 5, 7, 1, 3, 7, 2, 6, 4, 2, 2, 7, 6, 6, 5, 4, 7, 5, 6, 9, 11, 8, 12, 9, 8, 8, 11, 10, 10, 12, 8, 9, 15, 11, 13, 9, 12, 13, 15, 9, 11, 15, 10, 14, 12, 10, 10, 15, 14, 14, 13, 12, 15, 13, 14, 17, 19, 16, 20, 17, 16, 16, 19, 18, 18, 20, 16, 17, 23, 19, 21, 17, 20, 21, 23, 17, 19, 23, 18, 22, 20, 18, 18, 23, 22, 22, 21, 20, 23, 21, 22, 25, 27, 24, 28, 25, 24, 24, 27, 26, 26, 28, 24, 25, 31, 27, 29, 25, 28, 29, 31, 25, 27, 31, 26, 30, 28, 26, 26, 31, 30, 30, 29, 28, 31, 29, 30, 33, 35, 32, 36, 33, 32, 32, 35, 34, 34, 36, 32, 33, 39, 35, 37, 33, 36, 37, 39, 33, 35, 39, 34, 38, 36, 34, 34, 39, 38, 38, 37, 36, 39, 37, 38, 41, 43, 40, 44, 41, 40, 40, 43, 42, 42, 44, 40, 41, 47, 43, 45, 41, 44, 45, 47, 41, 43, 47, 42, 46, 44, 42, 42, 47, 46, 46, 45, 44, 47, 45, 46, 49, 51, 48, 52, 49, 48, 48, 51, 50, 50, 52, 48, 49, 55, 51, 53, 49, 52, 53, 55, 49, 51, 55, 50, 54, 52, 50, 50, 55, 54, 54, 53, 52, 55, 53, 54, 57, 59, 56, 60, 57, 56, 56, 59, 58, 58, 60, 56, 57, 63, 59, 61, 57, 60, 61, 63, 57, 59, 63, 58, 62, 60, 58, 58, 63, 62, 62, 61, 60, 63, 61, 62, 65, 67, 64, 68, 65, 64, 64, 67, 66, 66, 68, 64, 65, 71, 67, 69, 65, 68, 69, 71, 65, 67, 71, 66, 70, 68, 66, 66, 71, 70, 70, 69, 68, 71, 69, 70, 73, 75, 72, 76, 73, 72, 72, 75, 74, 74, 76, 72, 73, 79, 75, 77, 73, 76, 77, 79, 73, 75, 79, 74, 78, 76, 74, 74, 79, 78, 78, 77, 76, 79, 77, 78, 81, 83, 80, 84, 81, 80, 80, 83, 82, 82, 84, 80, 81, 87, 83, 85, 81, 84, 85, 87, 81, 83, 87, 82, 86, 84, 82, 82, 87, 86, 86, 85, 84, 87, 85, 86, 89, 91, 88, 92, 89, 88, 88, 91, 90, 90, 92, 88, 89, 95, 91, 93, 89, 92, 93, 95, 89, 91, 95, 90, 94, 92, 90, 90, 95, 94, 94, 93, 92, 95, 93, 94, 97, 99, 96, 100, 97, 96, 96, 99, 98, 98, 100, 96, 97, 103, 99, 101, 97, 100, 101, 103, 97, 99, 103, 98, 102, 100, 98, 98, 103, 102, 102, 101, 100, 103, 101, 102, 105, 107, 104, 108, 105, 104, 104, 107, 106, 106, 108, 104, 105, 111, 107, 109, 105, 108, 109, 111, 105, 107, 111, 106, 110, 108, 106, 106, 111, 110, 110, 109, 108, 111, 109, 110, 113, 115, 112, 116, 113, 112, 112, 115, 114, 114, 116, 112, 113, 119, 115, 117, 113, 116, 117, 119, 113, 115, 119, 114, 118, 116, 114, 114, 119, 118, 118, 117, 116, 119, 117, 118, 121, 123, 120, 124, 121, 120, 120, 123, 122, 122, 124, 120, 121, 127, 123, 125, 121, 124, 125, 127, 121, 123, 127, 122, 126, 124, 122, 122, 127, 126, 126, 125, 124, 127, 125, 126, 129, 131, 128, 132, 129, 128, 128, 131, 130, 130, 132, 128, 129, 135, 131, 133, 129, 132, 133, 135, 129, 131, 135, 130, 134, 132, 130, 130, 135, 134, 134, 133, 132, 135, 133, 134, 137, 139, 136, 140, 137, 136, 136, 139, 138, 138, 140, 136, 137, 143, 139, 141, 137, 140, 141, 143, 137, 139, 143, 138, 142, 140, 138, 138, 143, 142, 142, 141, 140, 143, 141, 142]}, {"name": "records_3", "color": "#deb24a", "positions": [18.5312, 0.75, -1.15, 18.5312, 7.7191, -3.1484, 18.5312, 0.6894, -1.3615, 18.5312, 7.6585, -3.3598, 25.7812, 0.75, -1.15, 25.7812, 7.7191, -3.1484, 25.7812, 0.6894, -1.3615, 25.7812, 7.6585, -3.3598, 18.5312, 0.75, -1.4089, 18.5312, 7.7191, -3.4072, 18.5312, 0.6894, -1.6203, 18.5312, 7.6585, -3.6187, 25.7812, 0.75, -1.4089, 25.7812, 7.7191, -3.4072, 25.7812, 0.6894, -1.6203, 25.7812, 7.6585, -3.6187, 18.5312, 0.75, -1.6677, 18.5312, 7.7191, -3.6661, 18.5312, 0.6894, -1.8792, 18.5312, 7.6585, -3.8776, 25.7812, 0.75, -1.6677, 25.7812, 7.7191, -3.6661, 25.7812, 0.6894, -1.8792, 25.7812, 7.6585, -3.8776, 18.5312, 0.75, -1.9266, 18.5312, 7.7191, -3.925, 18.5312, 0.6894, -2.1381, 18.5312, 7.6585, -4.1364, 25.7812, 0.75, -1.9266, 25.7812, 7.7191, -3.925, 25.7812, 0.6894, -2.1381, 25.7812, 7.6585, -4.1364, 18.5312, 0.75, -2.1855, 18.5312, 7.7191, -4.1838, 18.5312, 0.6894, -2.3969, 18.5312, 7.6585, -4.3953, 25.7812, 0.75, -2.1855, 25.7812, 7.7191, -4.1838, 25.7812, 0.6894, -2.3969, 25.7812, 7.6585, -4.3953, 18.5312, 0.75, -2.4443, 18.5312, 7.7191, -4.4427, 18.5312, 0.6894, -2.6558, 18.5312, 7.6585, -4.6542, 25.7812, 0.75, -2.4443, 25.7812, 7.7191, -4.4427, 25.7812, 0.6894, -2.6558, 25.7812, 7.6585, -4.6542, 18.5312, 0.75, -2.7032, 18.5312, 7.7191, -4.7016, 18.5312, 0.6894, -2.9147, 18.5312, 7.6585, -4.913, 25.7812, 0.75, -2.7032, 25.7812, 7.7191, -4.7016, 25.7812, 0.6894, -2.9147, 25.7812, 7.6585, -4.913, 18.5312, 0.75, -2.9621, 18.5312, 7.7191, -4.9604, 18.5312, 0.6894, -3.1735, 18.5312, 7.6585, -5.1719, 25.7812, 0.75, -2.9621, 25.7812, 7.7191, -4.9604, 25.7812, 0.6894, -3.1735, 25.7812, 7.6585, -5.1719, 18.5312, 0.75, -3.2209, 18.5312, 7.7191, -5.2193, 18.5312, 0.6894, -3.4324, 18.5312, 7.6585, -5.4308, 25.7812, 0.75, -3.2209, 25.7812, 7.7191, -5.2193, 25.7812, 0.6894, -3.4324, 25.7812, 7.6585, -5.4308, 18.5312, 0.75, -3.4798, 18.5312, 7.7191, -5.4782, 18.5312, 0.6894, -3.6913, 18.5312, 7.6585, -5.6896, 25.7812, 0.75, -3.4798, 25.7812, 7.7191, -5.4782, 25.7812, 0.6894, -3.6913, 25.7812, 7.6585, -5.6896, 18.5312, 0.75, -3.7387, 18.5312, 7.7191, -5.737, 18.5312, 0.6894, -3.9501, 18.5312, 7.6585, -5.9485, 25.7812, 0.75, -3.7387, 25.7812, 7.7191, -5.737, 25.7812, 0.6894, -3.9501, 25.7812, 7.6585, -5.9485, 18.5312, 0.75, -3.9975, 18.5312, 7.7191, -5.9959, 18.5312, 0.6894, -4.209, 18.5312, 7.6585, -6.2074, 25.7812, 0.75, -3.9975, 25.7812, 7.7191, -5.9959, 25.7812, 0.6894, -4.209, 25.7812, 7.6585, -6.2074, 18.5312, 0.75, -4.2564, 18.5312, 7.7191, -6.2548, 18.5312, 0.6894, -4.4679, 18.5312, 7.6585, -6.4662, 25.7812, 0.75, -4.2564, 25.7812, 7.7191, -6.2548, 25.7812, 0.6894, -4.4679, 25.7812, 7.6585, -6.4662, 18.5312, 0.75, -4.5153, 18.5312, 7.7191, -6.5136, 18.5312, 0.6894, -4.7267, 18.5312, 7.6585, -6.7251, 25.7812, 0.75, -4.5153, 25.7812, 7.7191, -6.5136, 25.7812, 0.6894, -4.7267, 25.7812, 7.6585, -6.7251, 18.5312, 0.75, -4.7741, 18.5312, 7.7191, -6.7725, 18.5312, 0.6894, -4.9856, 18.5312, 7.6585, -6.984, 25.7812, 0.75, -4.7741, 25.7812, 7.7191, -6.7725, 25.7812, 0.6894, -4.9856, 25.7812, 7.6585, -6.984, 18.5312, 0.75, -5.033, 18.5312, 7.7191, -7.0314, 18.5312, 0.6894, -5.2445, 18.5312, 7.6585, -7.2428, 25.7812, 0.75, -5.033, 25.7812, 7.7191, -7.0314, 25.7812, 0.6894, -5.2445, 25.7812, 7.6585, -7.2428, 18.5312, 0.75, -5.2919, 18.5312, 7.7191, -7.2902, 18.5312, 0.6894, -5.5033, 18.5312, 7.6585, -7.5017, 25.7812, 0.75, -5.2919, 25.7812, 7.7191, -7.2902, 25.7812, 0.6894, -5.5033, 25.7812, 7.6585, -7.5017, 18.5312, 0.75, -5.5507, 18.5312, 7.7191, -7.5491, 18.5312, 0.6894, -5.7622, 18.5312, 7.6585, -7.7606, 25.7812, 0.75, -5.5507, 25.7812, 7.7191, -7.5491, 25.7812, 0.6894, -5.7622, 25.7812, 7.6585, -7.7606], "indices": [1, 3, 0, 4, 1, 0, 0, 3, 2, 2, 4, 0, 1, 7, 3, 5, 1, 4, 5, 7, 1, 3, 7, 2, 6, 4, 2, 2, 7, 6, 6, 5, 4, 7, 5, 6, 9, 11, 8, 12, 9, 8, 8, 11, 10, 10, 12, 8, 9, 15, 11, 13, 9, 12, 13, 15, 9, 11, 15, 10, 14, 12, 10, 10, 15, 14, 14, 13, 12, 15, 13, 14, 17, 19, 16, 20, 17, 16, 16, 19, 18, 18, 20, 16, 17, 23, 19, 21, 17, 20, 21, 23, 17, 19, 23, 18, 22, 20, 18, 18, 23, 22, 22, 21, 20, 23, 21, 22, 25, 27, 24, 28, 25, 24, 24, 27, 26, 26, 28, 24, 25, 31, 27, 29, 25, 28, 29, 31, 25, 27, 31, 26, 30, 28, 26, 26, 31, 30, 30, 29, 28, 31, 29, 30, 33, 35, 32, 36, 33, 32, 32, 35, 34, 34, 36, 32, 33, 39, 35, 37, 33, 36, 37, 39, 33, 35, 39, 34, 38, 36, 34, 34, 39, 38, 38, 37, 36, 39, 37, 38, 41, 43, 40, 44, 41, 40, 40, 43, 42, 42, 44, 40, 41, 47, 43, 45, 41, 44, 45, 47, 41, 43, 47, 42, 46, 44, 42, 42, 47, 46, 46, 45, 44, 47, 45, 46, 49, 51, 48, 52, 49, 48, 48, 51, 50, 50, 52, 48, 49, 55, 51, 53, 49, 52, 53, 55, 49, 51, 55, 50, 54, 52, 50, 50, 55, 54, 54, 53, 52, 55, 53, 54, 57, 59, 56, 60, 57, 56, 56, 59, 58, 58, 60, 56, 57, 63, 59, 61, 57, 60, 61, 63, 57, 59, 63, 58, 62, 60, 58, 58, 63, 62, 62, 61, 60, 63, 61, 62, 65, 67, 64, 68, 65, 64, 64, 67, 66, 66, 68, 64, 65, 71, 67, 69, 65, 68, 69, 71, 65, 67, 71, 66, 70, 68, 66, 66, 71, 70, 70, 69, 68, 71, 69, 70, 73, 75, 72, 76, 73, 72, 72, 75, 74, 74, 76, 72, 73, 79, 75, 77, 73, 76, 77, 79, 73, 75, 79, 74, 78, 76, 74, 74, 79, 78, 78, 77, 76, 79, 77, 78, 81, 83, 80, 84, 81, 80, 80, 83, 82, 82, 84, 80, 81, 87, 83, 85, 81, 84, 85, 87, 81, 83, 87, 82, 86, 84, 82, 82, 87, 86, 86, 85, 84, 87, 85, 86, 89, 91, 88, 92, 89, 88, 88, 91, 90, 90, 92, 88, 89, 95, 91, 93, 89, 92, 93, 95, 89, 91, 95, 90, 94, 92, 90, 90, 95, 94, 94, 93, 92, 95, 93, 94, 97, 99, 96, 100, 97, 96, 96, 99, 98, 98, 100, 96, 97, 103, 99, 101, 97, 100, 101, 103, 97, 99, 103, 98, 102, 100, 98, 98, 103, 102, 102, 101, 100, 103, 101, 102, 105, 107, 104, 108, 105, 104, 104, 107, 106, 106, 108, 104, 105, 111, 107, 109, 105, 108, 109, 111, 105, 107, 111, 106, 110, 108, 106, 106, 111, 110, 110, 109, 108, 111, 109, 110, 113, 115, 112, 116, 113, 112, 112, 115, 114, 114, 116, 112, 113, 119, 115, 117, 113, 116, 117, 119, 113, 115, 119, 114, 118, 116, 114, 114, 119, 118, 118, 117, 116, 119, 117, 118, 121, 123, 120, 124, 121, 120, 120, 123, 122, 122, 124, 120, 121, 127, 123, 125, 121, 124, 125, 127, 121, 123, 127, 122, 126, 124, 122, 122, 127, 126, 126, 125, 124, 127, 125, 126, 129, 131, 128, 132, 129, 128, 128, 131, 130, 130, 132, 128, 129, 135, 131, 133, 129, 132, 133, 135, 129, 131, 135, 130, 134, 132, 130, 130, 135, 134, 134, 133, 132, 135, 133, 134, 137, 139, 136, 140, 137, 136, 136, 139, 138, 138, 140, 136, 137, 143, 139, 141, 137, 140, 141, 143, 137, 139, 143, 138, 142, 140, 138, 138, 143, 142, 142, 141, 140, 143, 141, 142]}, {"name": "records_4", "color": "#568260", "positions": [27.0938, 0.75, -1.15, 27.0938, 7.7191, -3.1484, 27.0938, 0.6894, -1.3615, 27.0938, 7.6585, -3.3598, 34.3438, 0.75, -1.15, 34.3438, 7.7191, -3.1484, 34.3438, 0.6894, -1.3615, 34.3438, 7.6585, -3.3598, 27.0938, 0.75, -1.4089, 27.0938, 7.7191, -3.4072, 27.0938, 0.6894, -1.6203, 27.0938, 7.6585, -3.6187, 34.3438, 0.75, -1.4089, 34.3438, 7.7191, -3.4072, 34.3438, 0.6894, -1.6203, 34.3438, 7.6585, -3.6187, 27.0938, 0.75, -1.6677, 27.0938, 7.7191, -3.6661, 27.0938, 0.6894, -1.8792, 27.0938, 7.6585, -3.8776, 34.3438, 0.75, -1.6677, 34.3438, 7.7191, -3.6661, 34.3438, 0.6894, -1.8792, 34.3438, 7.6585, -3.8776, 27.0938, 0.75, -1.9266, 27.0938, 7.7191, -3.925, 27.0938, 0.6894, -2.1381, 27.0938, 7.6585, -4.1364, 34.3438, 0.75, -1.9266, 34.3438, 7.7191, -3.925, 34.3438, 0.6894, -2.1381, 34.3438, 7.6585, -4.1364, 27.0938, 0.75, -2.1855, 27.0938, 7.7191, -4.1838, 27.0938, 0.6894, -2.3969, 27.0938, 7.6585, -4.3953, 34.3438, 0.75, -2.1855, 34.3438, 7.7191, -4.1838, 34.3438, 0.6894, -2.3969, 34.3438, 7.6585, -4.3953, 27.0938, 0.75, -2.4443, 27.0938, 7.7191, -4.4427, 27.0938, 0.6894, -2.6558, 27.0938, 7.6585, -4.6542, 34.3438, 0.75, -2.4443, 34.3438, 7.7191, -4.4427, 34.3438, 0.6894, -2.6558, 34.3438, 7.6585, -4.6542, 27.0938, 0.75, -2.7032, 27.0938, 7.7191, -4.7016, 27.0938, 0.6894, -2.9147, 27.0938, 7.6585, -4.913, 34.3438, 0.75, -2.7032, 34.3438, 7.7191, -4.7016, 34.3438, 0.6894, -2.9147, 34.3438, 7.6585, -4.913, 27.0938, 0.75, -2.9621, 27.0938, 7.7191, -4.9604, 27.0938, 0.6894, -3.1735, 27.0938, 7.6585, -5.1719, 34.3438, 0.75, -2.9621, 34.3438, 7.7191, -4.9604, 34.3438, 0.6894, -3.1735, 34.3438, 7.6585, -5.1719, 27.0938, 0.75, -3.2209, 27.0938, 7.7191, -5.2193, 27.0938, 0.6894, -3.4324, 27.0938, 7.6585, -5.4308, 34.3438, 0.75, -3.2209, 34.3438, 7.7191, -5.2193, 34.3438, 0.6894, -3.4324, 34.3438, 7.6585, -5.4308, 27.0938, 0.75, -3.4798, 27.0938, 7.7191, -5.4782, 27.0938, 0.6894, -3.6913, 27.0938, 7.6585, -5.6896, 34.3438, 0.75, -3.4798, 34.3438, 7.7191, -5.4782, 34.3438, 0.6894, -3.6913, 34.3438, 7.6585, -5.6896, 27.0938, 0.75, -3.7387, 27.0938, 7.7191, -5.737, 27.0938, 0.6894, -3.9501, 27.0938, 7.6585, -5.9485, 34.3438, 0.75, -3.7387, 34.3438, 7.7191, -5.737, 34.3438, 0.6894, -3.9501, 34.3438, 7.6585, -5.9485, 27.0938, 0.75, -3.9975, 27.0938, 7.7191, -5.9959, 27.0938, 0.6894, -4.209, 27.0938, 7.6585, -6.2074, 34.3438, 0.75, -3.9975, 34.3438, 7.7191, -5.9959, 34.3438, 0.6894, -4.209, 34.3438, 7.6585, -6.2074, 27.0938, 0.75, -4.2564, 27.0938, 7.7191, -6.2548, 27.0938, 0.6894, -4.4679, 27.0938, 7.6585, -6.4662, 34.3438, 0.75, -4.2564, 34.3438, 7.7191, -6.2548, 34.3438, 0.6894, -4.4679, 34.3438, 7.6585, -6.4662, 27.0938, 0.75, -4.5153, 27.0938, 7.7191, -6.5136, 27.0938, 0.6894, -4.7267, 27.0938, 7.6585, -6.7251, 34.3438, 0.75, -4.5153, 34.3438, 7.7191, -6.5136, 34.3438, 0.6894, -4.7267, 34.3438, 7.6585, -6.7251, 27.0938, 0.75, -4.7741, 27.0938, 7.7191, -6.7725, 27.0938, 0.6894, -4.9856, 27.0938, 7.6585, -6.984, 34.3438, 0.75, -4.7741, 34.3438, 7.7191, -6.7725, 34.3438, 0.6894, -4.9856, 34.3438, 7.6585, -6.984, 27.0938, 0.75, -5.033, 27.0938, 7.7191, -7.0314, 27.0938, 0.6894, -5.2445, 27.0938, 7.6585, -7.2428, 34.3438, 0.75, -5.033, 34.3438, 7.7191, -7.0314, 34.3438, 0.6894, -5.2445, 34.3438, 7.6585, -7.2428, 27.0938, 0.75, -5.2919, 27.0938, 7.7191, -7.2902, 27.0938, 0.6894, -5.5033, 27.0938, 7.6585, -7.5017, 34.3438, 0.75, -5.2919, 34.3438, 7.7191, -7.2902, 34.3438, 0.6894, -5.5033, 34.3438, 7.6585, -7.5017, 27.0938, 0.75, -5.5507, 27.0938, 7.7191, -7.5491, 27.0938, 0.6894, -5.7622, 27.0938, 7.6585, -7.7606, 34.3438, 0.75, -5.5507, 34.3438, 7.7191, -7.5491, 34.3438, 0.6894, -5.7622, 34.3438, 7.6585, -7.7606], "indices": [1, 3, 0, 4, 1, 0, 0, 3, 2, 2, 4, 0, 1, 7, 3, 5, 1, 4, 5, 7, 1, 3, 7, 2, 6, 4, 2, 2, 7, 6, 6, 5, 4, 7, 5, 6, 9, 11, 8, 12, 9, 8, 8, 11, 10, 10, 12, 8, 9, 15, 11, 13, 9, 12, 13, 15, 9, 11, 15, 10, 14, 12, 10, 10, 15, 14, 14, 13, 12, 15, 13, 14, 17, 19, 16, 20, 17, 16, 16, 19, 18, 18, 20, 16, 17, 23, 19, 21, 17, 20, 21, 23, 17, 19, 23, 18, 22, 20, 18, 18, 23, 22, 22, 21, 20, 23, 21, 22, 25, 27, 24, 28, 25, 24, 24, 27, 26, 26, 28, 24, 25, 31, 27, 29, 25, 28, 29, 31, 25, 27, 31, 26, 30, 28, 26, 26, 31, 30, 30, 29, 28, 31, 29, 30, 33, 35, 32, 36, 33, 32, 32, 35, 34, 34, 36, 32, 33, 39, 35, 37, 33, 36, 37, 39, 33, 35, 39, 34, 38, 36, 34, 34, 39, 38, 38, 37, 36, 39, 37, 38, 41, 43, 40, 44, 41, 40, 40, 43, 42, 42, 44, 40, 41, 47, 43, 45, 41, 44, 45, 47, 41, 43, 47, 42, 46, 44, 42, 42, 47, 46, 46, 45, 44, 47, 45, 46, 49, 51, 48, 52, 49, 48, 48, 51, 50, 50, 52, 48, 49, 55, 51, 53, 49, 52, 53, 55, 49, 51, 55, 50, 54, 52, 50, 50, 55, 54, 54, 53, 52, 55, 53, 54, 57, 59, 56, 60, 57, 56, 56, 59, 58, 58, 60, 56, 57, 63, 59, 61, 57, 60, 61, 63, 57, 59, 63, 58, 62, 60, 58, 58, 63, 62, 62, 61, 60, 63, 61, 62, 65, 67, 64, 68, 65, 64, 64, 67, 66, 66, 68, 64, 65, 71, 67, 69, 65, 68, 69, 71, 65, 67, 71, 66, 70, 68, 66, 66, 71, 70, 70, 69, 68, 71, 69, 70, 73, 75, 72, 76, 73, 72, 72, 75, 74, 74, 76, 72, 73, 79, 75, 77, 73, 76, 77, 79, 73, 75, 79, 74, 78, 76, 74, 74, 79, 78, 78, 77, 76, 79, 77, 78, 81, 83, 80, 84, 81, 80, 80, 83, 82, 82, 84, 80, 81, 87, 83, 85, 81, 84, 85, 87, 81, 83, 87, 82, 86, 84, 82, 82, 87, 86, 86, 85, 84, 87, 85, 86, 89, 91, 88, 92, 89, 88, 88, 91, 90, 90, 92, 88, 89, 95, 91, 93, 89, 92, 93, 95, 89, 91, 95, 90, 94, 92, 90, 90, 95, 94, 94, 93, 92, 95, 93, 94, 97, 99, 96, 100, 97, 96, 96, 99, 98, 98, 100, 96, 97, 103, 99, 101, 97, 100, 101, 103, 97, 99, 103, 98, 102, 100, 98, 98, 103, 102, 102, 101, 100, 103, 101, 102, 105, 107, 104, 108, 105, 104, 104, 107, 106, 106, 108, 104, 105, 111, 107, 109, 105, 108, 109, 111, 105, 107, 111, 106, 110, 108, 106, 106, 111, 110, 110, 109, 108, 111, 109, 110, 113, 115, 112, 116, 113, 112, 112, 115, 114, 114, 116, 112, 113, 119, 115, 117, 113, 116, 117, 119, 113, 115, 119, 114, 118, 116, 114, 114, 119, 118, 118, 117, 116, 119, 117, 118, 121, 123, 120, 124, 121, 120, 120, 123, 122, 122, 124, 120, 121, 127, 123, 125, 121, 124, 125, 127, 121, 123, 127, 122, 126, 124, 122, 122, 127, 126, 126, 125, 124, 127, 125, 126, 129, 131, 128, 132, 129, 128, 128, 131, 130, 130, 132, 128, 129, 135, 131, 133, 129, 132, 133, 135, 129, 131, 135, 130, 134, 132, 130, 130, 135, 134, 134, 133, 132, 135, 133, 134, 137, 139, 136, 140, 137, 136, 136, 139, 138, 138, 140, 136, 137, 143, 139, 141, 137, 140, 141, 143, 137, 139, 143, 138, 142, 140, 138, 138, 143, 142, 142, 141, 140, 143, 141, 142]}];
 
 const app = document.getElementById('app');
 const renderer = new THREE.WebGLRenderer({ antialias: true });

diff --git a/src/simple_shelf.py b/src/simple_shelf.py
@@ -22,12 +22,14 @@ import cutsheet
 T = rs.T                 # 3/4" plywood
 BAYS = 4                 # 4 compartments
 BAY_W = 8.0              # clear width per compartment (7 1/4" sleeve + room)
-DEPTH = 9.0              # front-to-back
+DEPTH = 9.0              # slanted: front-to-back
+FLAT_DEPTH = 13.0        # flat version can protrude more (holds more 45s)
 BACK_H = 8.0             # slanted: back panel height
 FRONT_H = 4.0            # slanted: front panel height (lower, to flip through)
 FLAT_H = 6.0             # flat version: front == back height
 DIV_H = 4.5              # divider height
-REC_N = 8                # records shown per compartment
+REC_N = 8                # records shown per compartment (slanted)
+FLAT_REC_N = 18          # deeper flat bin holds more
 
 W = BAYS * BAY_W + (BAYS - 1) * T + 2 * T     # overall width
 IX0, IX1 = T, W - T
@@ -35,9 +37,9 @@ IX0, IX1 = T, W - T
 AXIS_PERM = rs.AXIS_PERM
 
 
-def side(x0, front_h, back_h):
-    """Side panel: DEPTH deep. Wedge if front_h != back_h, rectangle if equal."""
-    poly = Polygon([(0, 0), (0, front_h), (DEPTH, back_h), (DEPTH, 0)])
+def side(x0, front_h, back_h, depth):
+    """Side panel: `depth` deep. Wedge if front_h != back_h, rectangle if equal."""
+    poly = Polygon([(0, 0), (0, front_h), (depth, back_h), (depth, 0)])
     m = trimesh.creation.extrude_polygon(poly, height=T)
     m.apply_transform(AXIS_PERM)
     m.apply_translation(-m.bounds[0])
@@ -46,40 +48,40 @@ def side(x0, front_h, back_h):
     return m
 
 
-def build_parts(with_records=False, front_h=FRONT_H, back_h=BACK_H):
+def build_parts(with_records=False, front_h=FRONT_H, back_h=BACK_H,
+                depth=DEPTH, rec_n=REC_N):
     p = OrderedDict()
-    p["side_left"] = side(0.0, front_h, back_h)
-    p["side_right"] = side(W - T, front_h, back_h)
-    p["bottom"] = rs.plate(IX0, IX1, 0, DEPTH, 0, T, rs.WOOD_STRUCT)
-    p["back"] = rs.plate(IX0, IX1, DEPTH - T, DEPTH, T, back_h, rs.WOOD_STRUCT)
+    p["side_left"] = side(0.0, front_h, back_h, depth)
+    p["side_right"] = side(W - T, front_h, back_h, depth)
+    p["bottom"] = rs.plate(IX0, IX1, 0, depth, 0, T, rs.WOOD_STRUCT)
+    p["back"] = rs.plate(IX0, IX1, depth - T, depth, T, back_h, rs.WOOD_STRUCT)
     p["front"] = rs.plate(IX0, IX1, 0, T, T, front_h, rs.WOOD_STRUCT)
 
     edges = np.linspace(IX0, IX1, BAYS + 1)
     for i, xc in enumerate(edges[1:-1], 1):
-        p[f"divider_{i}"] = rs.plate(xc - T / 2, xc + T / 2, T, DEPTH - T,
+        p[f"divider_{i}"] = rs.plate(xc - T / 2, xc + T / 2, T, depth - T,
                                      T, T + DIV_H, rs.WOOD_STRUCT)
 
     if with_records:
         centers = (edges[:-1] + edges[1:]) / 2
         for k, cx in enumerate(centers):
             p[f"records_{k+1}"] = rs.record_stack(
-                cx, T + 0.4, T, REC_N,
+                cx, T + 0.4, T, rec_n,
                 rs.RECORD_COLORS[k % len(rs.RECORD_COLORS)], rs.RECORD7_SIZE)
     return p
 
 
-def emit(slug, label, front_h, back_h):
+def emit(slug, label, front_h, back_h, depth=DEPTH, rec_n=REC_N):
     here = os.path.dirname(__file__)
-    parts = build_parts(front_h=front_h, back_h=back_h)
+    parts = build_parts(front_h=front_h, back_h=back_h, depth=depth)
     rs.export(parts, os.path.join(here, "..", "models", slug))
-    b = np.round(trimesh.util.concatenate(list(parts.values())).bounds, 2)
     top = max(front_h, back_h)
-    print(f"[{label}] {len(parts)} parts  "
-          f"W×D×H = {b[1][0]-b[0][0]:.2f} × {b[1][1]-b[0][1]:.2f} × "
-          f"{top:.2f} in  ({(b[1][0]-b[0][0])*2.54:.0f} cm wide)")
+    print(f"[{label}] {len(parts)} parts  W×D×H = {W:.2f} × {depth:.2f} × "
+          f"{top:.2f} in  ({W*2.54:.0f} × {depth*2.54:.0f} × {top*2.54:.0f} cm)")
 
-    rec = build_parts(with_records=True, front_h=front_h, back_h=back_h)
-    bv.write_viewer(rec, f"{label} · {W:.2f} × {DEPTH} × {top:.1f} in",
+    rec = build_parts(with_records=True, front_h=front_h, back_h=back_h,
+                      depth=depth, rec_n=rec_n)
+    bv.write_viewer(rec, f"{label} · {W:.2f} × {depth} × {top:.1f} in",
                     f"viewer_{slug}.html")
     render.hero(rec, 26, -60, f"hero_{slug}.png")
     cutsheet.draw(parts, f'{label} — Cut Diagram', f"cut_diagram_{slug}.png", unit="in")
@@ -92,8 +94,10 @@ def emit(slug, label, front_h, back_h):
 
 
 def main():
-    emit("simple_7inch", "Simple 4x 7\" bin (slanted)", FRONT_H, BACK_H)
-    emit("simple_7inch_flat", "Simple 4x 7\" bin (flat)", FLAT_H, FLAT_H)
+    emit("simple_7inch", "Simple 4x 7\" bin (slanted)", FRONT_H, BACK_H,
+         depth=DEPTH, rec_n=REC_N)
+    emit("simple_7inch_flat", "Simple 4x 7\" bin (flat)", FLAT_H, FLAT_H,
+         depth=FLAT_DEPTH, rec_n=FLAT_REC_N)
 
 
 if __name__ == "__main__":